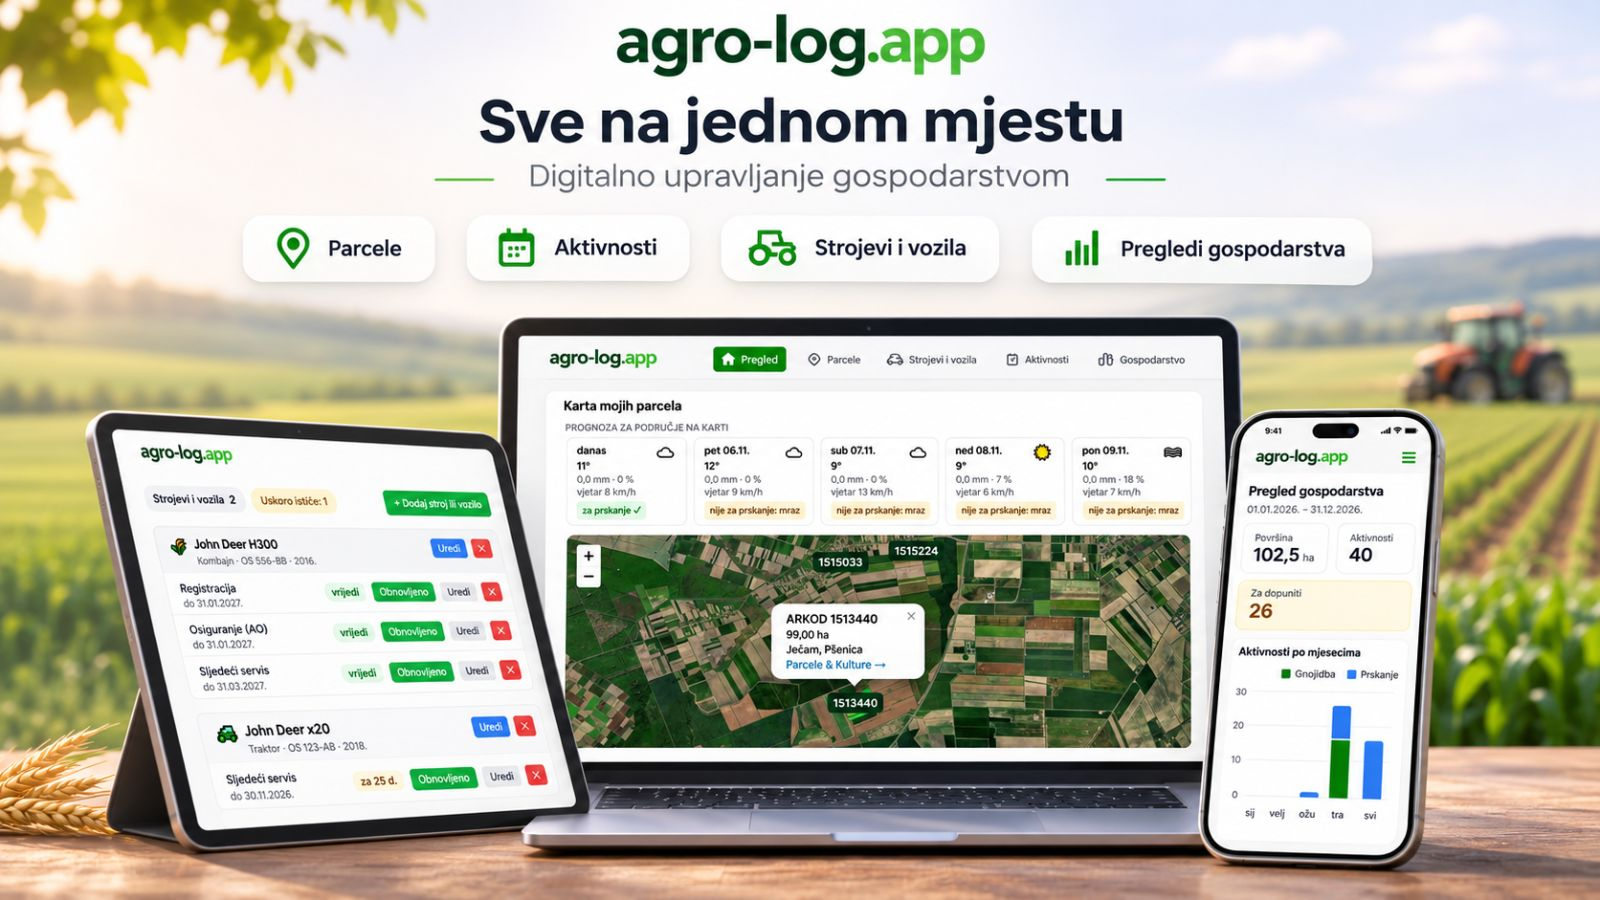
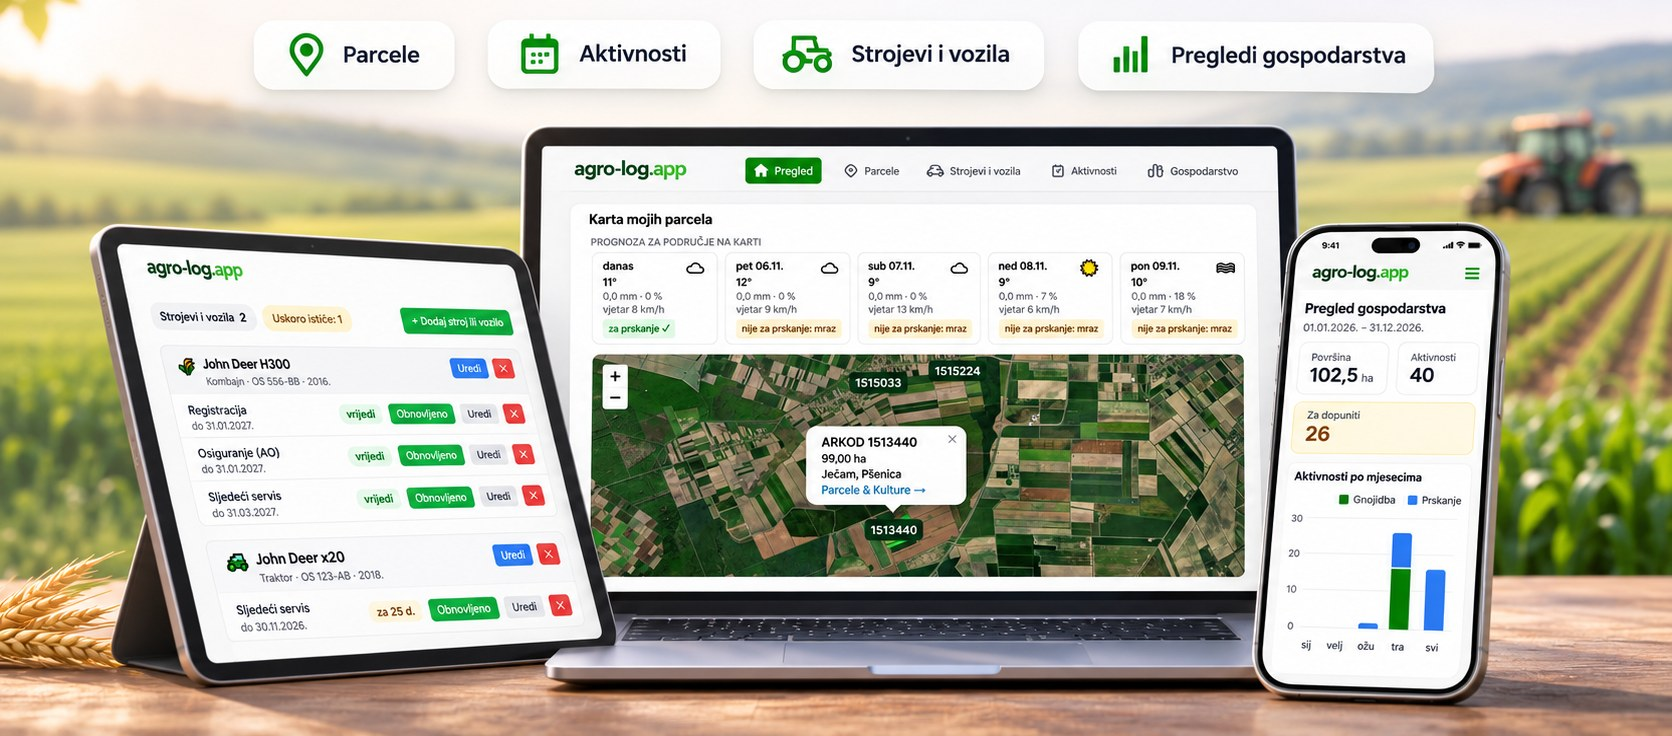
Hero: slike u punoj rezoluciji iz izvornika (kvaliteta 88), natpis izrezan u datoteci umjesto CSS povećanja; prva slika uvećana uz izoštravanje

diff --git a/resources/views/welcome.blade.php b/resources/views/welcome.blade.php
@@ -33,10 +33,10 @@
             ['slika' => 'hero-polje.jpg', 'pozicija' => 'object-[30%_center]', 'alt' => 'Poljoprivrednik na polju drži tablet s AgroLog evidencijom gnojidbe',
              'nadnaslov' => 'Digitalni alati za poljoprivrednike', 'naslov' => 'Službeni obrazac', 'istaknuto' => 'jednim klikom.',
              'opis' => 'Vodite evidenciju gnojidbe i prskanja po ARKOD parcelama i ispišite PDF u skladu s AGRONET zahtjevima — brzo, jednostavno i bez gubitka podataka.'],
-            ['slika' => 'hero-karta.jpg', 'pozicija' => 'object-[80%_center] scale-[1.3] origin-[80%_100%]', 'alt' => 'AgroLog na laptopu i mobitelu: karta ARKOD parcela s prognozom za prskanje i pregled gospodarstva',
+            ['slika' => 'hero-karta.jpg', 'pozicija' => 'object-[80%_center]', 'alt' => 'AgroLog na laptopu i mobitelu: karta ARKOD parcela s prognozom za prskanje i pregled gospodarstva',
              'nadnaslov' => 'Karta i prognoza', 'naslov' => 'Sve parcele', 'istaknuto' => 'na jednoj karti.',
              'opis' => 'Upišite ARKOD broj i parcela se pojavi na satelitskoj karti sa službenom površinom. Iznad karte je prognoza za pet dana — odmah vidite koji je dan za prskanje.'],
-            ['slika' => 'hero-sve.jpg', 'pozicija' => 'object-[62%_center] scale-[1.35] origin-[62%_100%]', 'alt' => 'AgroLog na tabletu, laptopu i mobitelu: strojevi i vozila, karta parcela i pregled gospodarstva',
+            ['slika' => 'hero-sve.jpg', 'pozicija' => 'object-[62%_center]', 'alt' => 'AgroLog na tabletu, laptopu i mobitelu: strojevi i vozila, karta parcela i pregled gospodarstva',
              'nadnaslov' => 'Sve na jednom mjestu', 'naslov' => 'Parcele, strojevi', 'istaknuto' => 'i troškovi.',
              'opis' => 'Registracije, osiguranja i servisi s podsjetnikom mailom, skladište koje samo oduzima potrošnju i trošak po hektaru svake kulture.'],
             ['slika' => 'hero-polje-mobitel.jpg', 'pozicija' => 'object-[62%_center]', 'alt' => 'Poljoprivrednik u polju s mobitelom i laptopom na kojima je AgroLog pregled gospodarstva',
